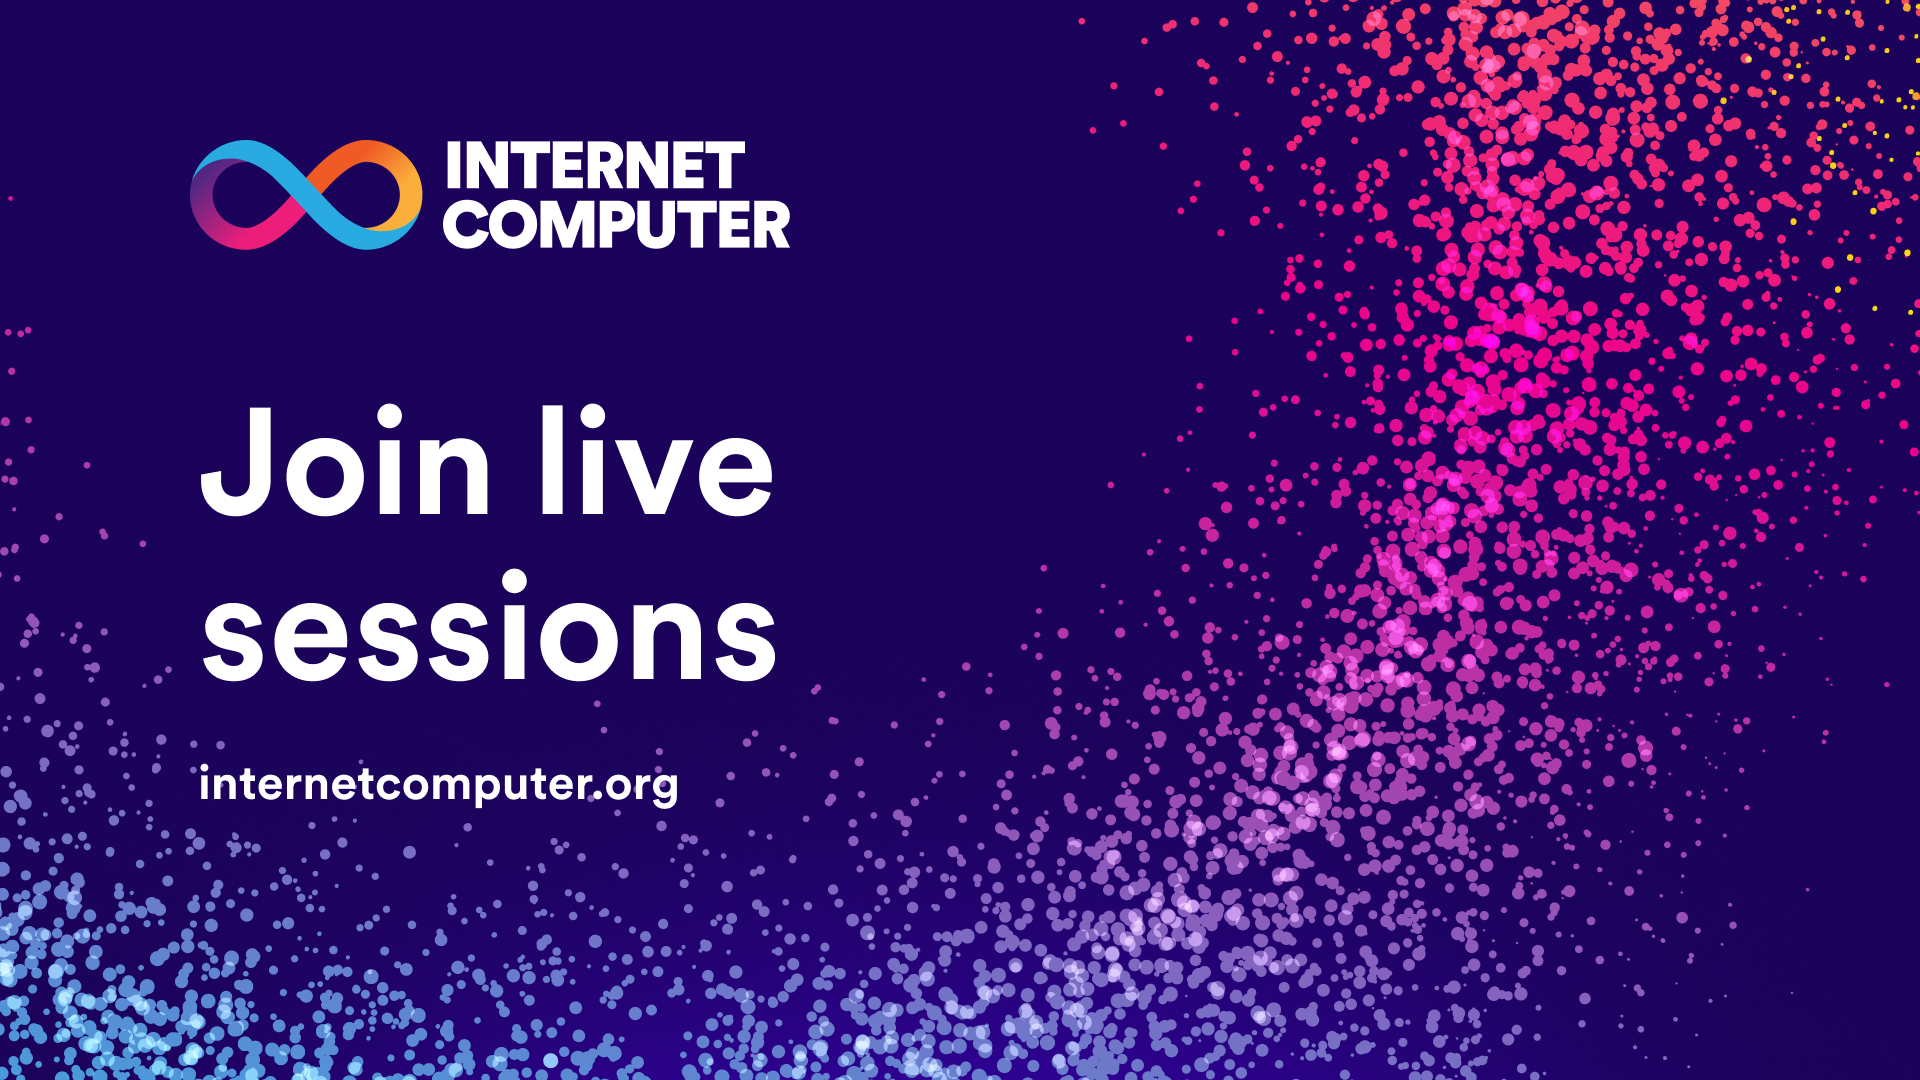
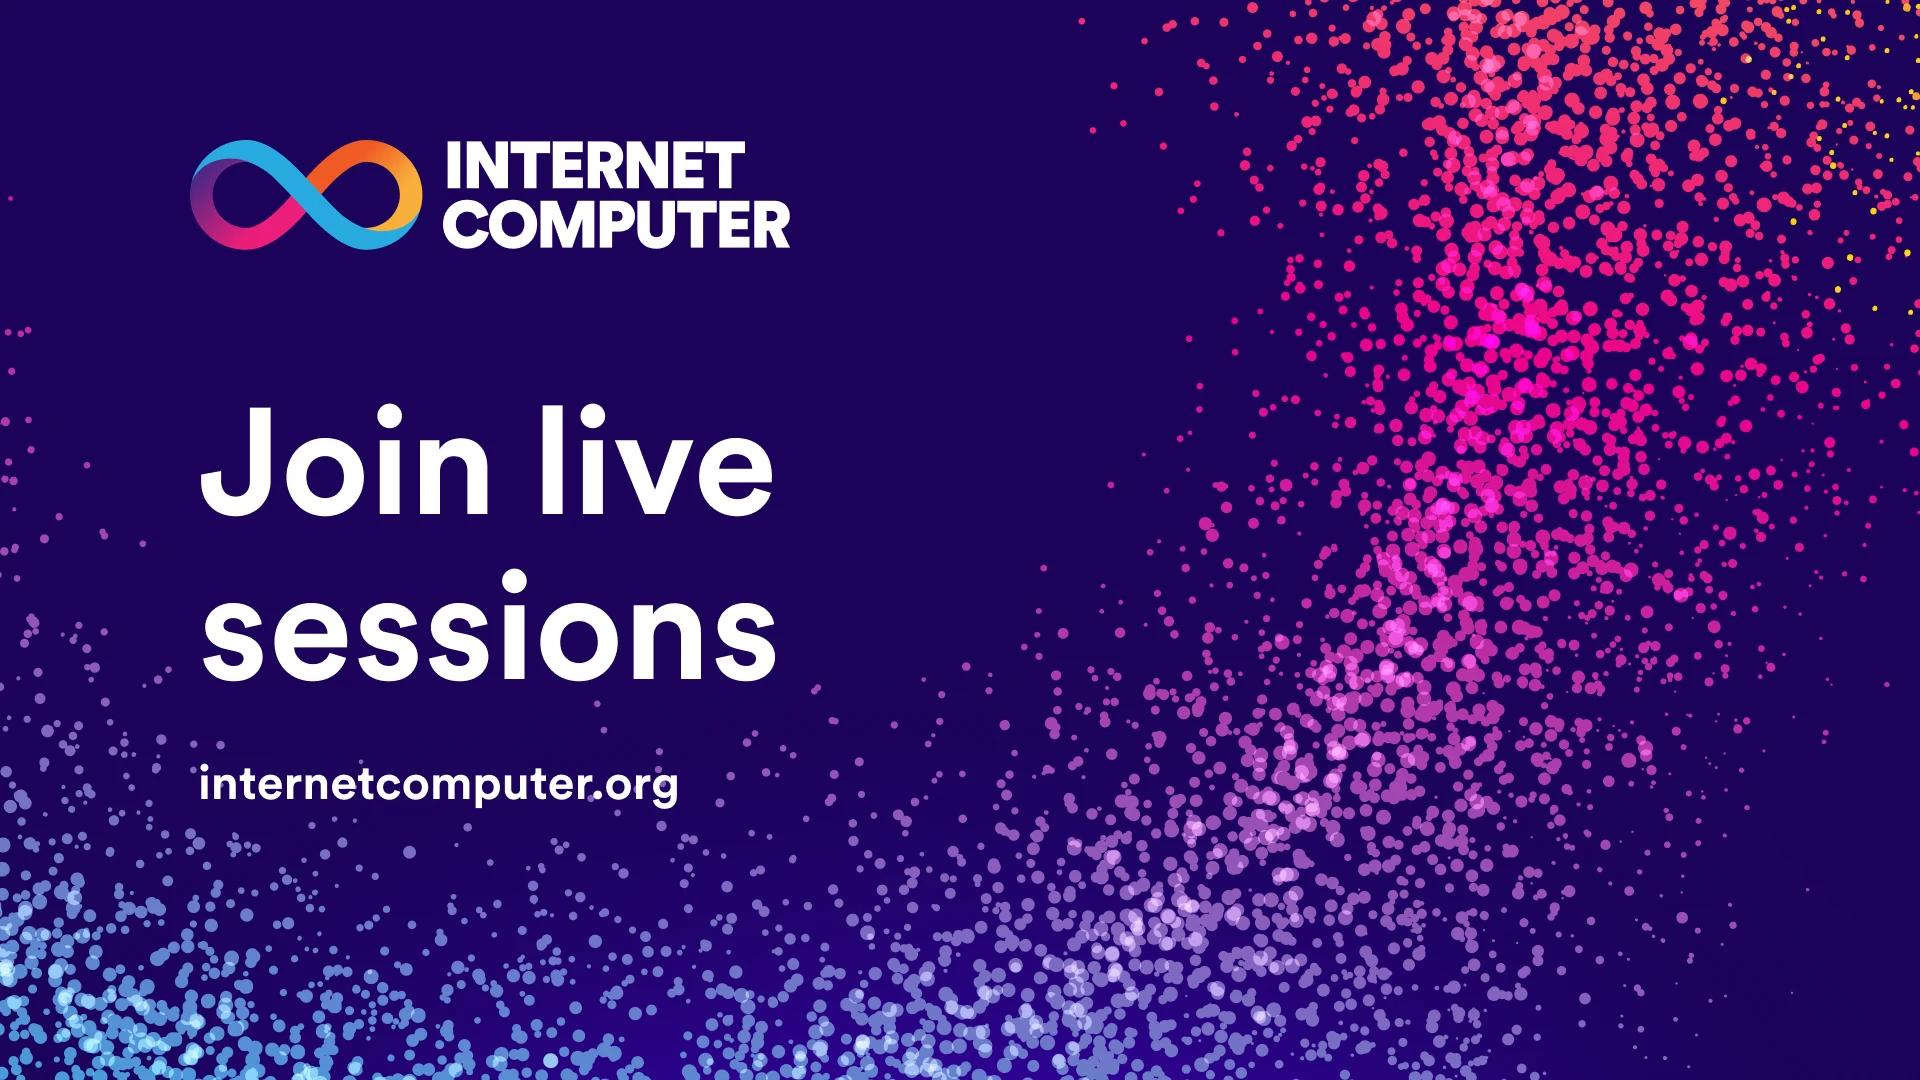
replaced, compressed big images, fixed typo

diff --git a/src/pages/roadmap.tsx b/src/pages/roadmap.tsx
@@ -40,7 +40,7 @@ const RoadmapPage: React.FC = () => {
       description="The DFINITY Foundation is committing R&D resources in various domains of development with the intent of making the Internet Computer blockchain more efficient, faster and easier to use. This roadmap shows the status of many projects across the Internet Computer stack."
       editPath="https://github.com/dfinity/portal/tree/master/roadmap"
     >
-      <ShareMeta image="/img/shareImages/share-roadmap.jpg"></ShareMeta>
+      <ShareMeta image="/img/shareImages/share-roadmap.webp"></ShareMeta>
 
       <main className="w-full overflow-hidden">
         <section className="overflow-hidden bg-infinite text-white">

diff --git a/src/pages/community/asia-alliance.tsx b/src/pages/community/asia-alliance.tsx
@@ -89,7 +89,7 @@ function AsiaAlliancePage() {
       description="The ICP Asia Alliance is at the forefront of fostering a vibrant Web3 and AI ecosystem in Asia."
       editPath={`https://github.com/dfinity/portal/edit/master/${__filename}`}
     >
-      <ShareMeta image="/img/shareImages/share-asia-alliance.jpg"></ShareMeta>
+      <ShareMeta image="/img/shareImages/share-asia-alliance.webp"></ShareMeta>
 
       <main
         className="text-black relative overflow-hidden"

diff --git a/src/pages/https-outcalls.tsx b/src/pages/https-outcalls.tsx
@@ -20,7 +20,7 @@ function HTTPSOutcalls() {
       world, opening up a plethora of use cases."
       editPath={`https://github.com/dfinity/portal/edit/master/${__filename}`}
     >
-      <ShareMeta image="/img/shareImages/share-https-outcalls.jpg"></ShareMeta>
+      <ShareMeta image="/img/shareImages/share-https-outcalls.webp"></ShareMeta>
 
       <main className="text-black relative">
         <section className="overflow-hidden bg-infinite text-white">

diff --git a/src/pages/how-it-works.tsx b/src/pages/how-it-works.tsx
@@ -109,7 +109,7 @@ function HowItWorks() {
           }
         `}
       </style>
-      <ShareMeta image="/img/shareImages/share-how-it-works.jpg"></ShareMeta>
+      <ShareMeta image="/img/shareImages/share-how-it-works.webp"></ShareMeta>
       <main className="text-black relative">
         <section className="overflow-hidden bg-infinite text-white">
           <DarkHeroStyles></DarkHeroStyles>

diff --git a/src/pages/developers.tsx b/src/pages/developers.tsx
@@ -15,7 +15,7 @@ function Developers(): JSX.Element {
       }
       editPath={`https://github.com/dfinity/portal/edit/master/${__filename}`}
     >
-      <ShareMeta image="/img/shareImages/share-developers.jpeg"></ShareMeta>
+      <ShareMeta image="/img/shareImages/share-developers.webp"></ShareMeta>
 
       <main className="w-full overflow-hidden">
         <Header />
